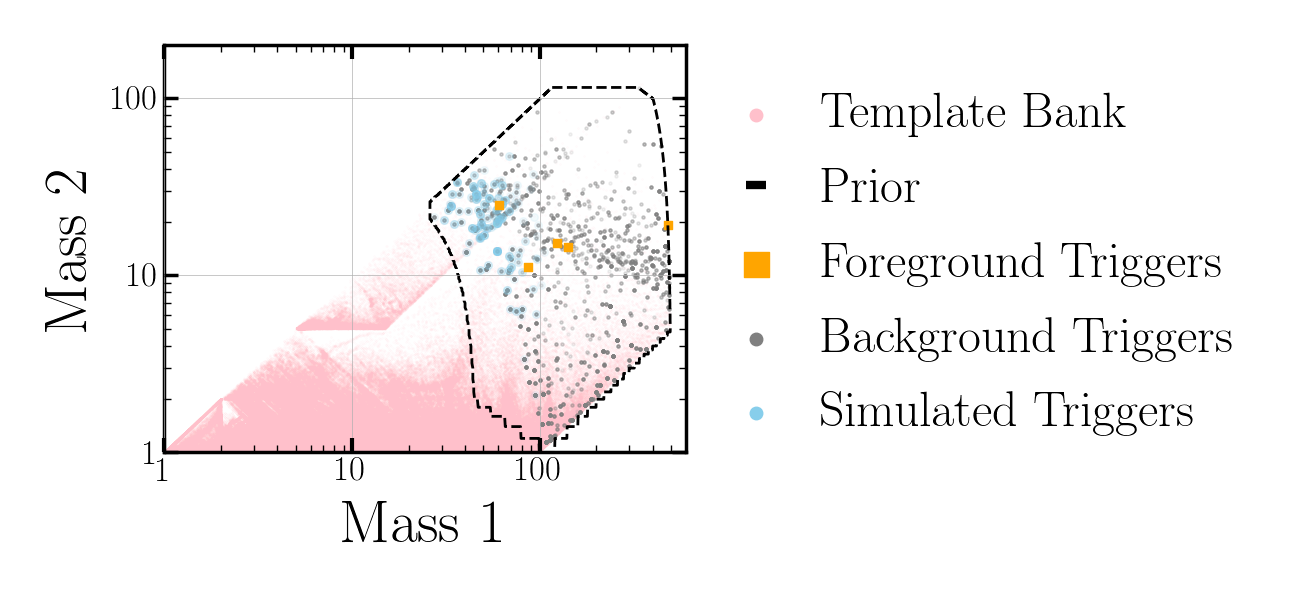
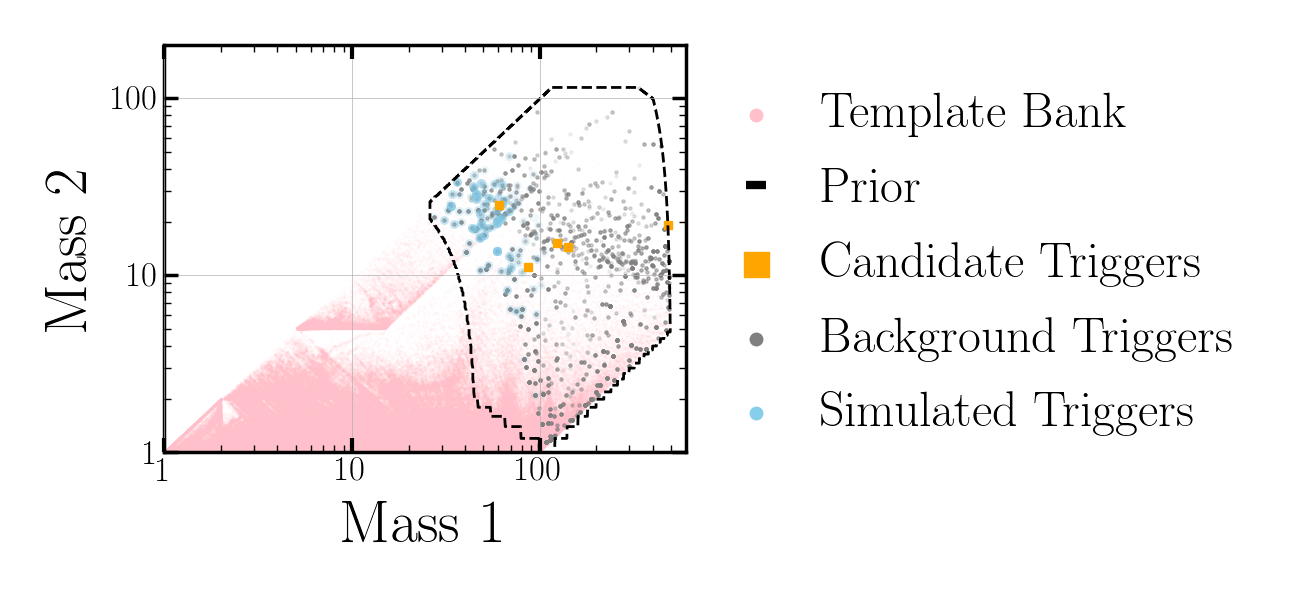
adjust trigger label

Changed region(s): [[0.6154, 0.39, 0.9538, 0.48]]

diff --git a/scripts/make_template_plot.py b/scripts/make_template_plot.py
@@ -186,7 +186,7 @@ def plot_template_bank():
 
     bank_patch = ax_m1m2.scatter([], [], label="Template Bank", marker=".", color="pink")
     prior_patch, = ax_m1m2.plot([], [], label="Prior", linestyle="--", color="k")
-    fg_patch = ax_m1m2.scatter([], [], label="Foreground Triggers", marker="s", color="orange")
+    fg_patch = ax_m1m2.scatter([], [], label="Candidate Triggers", marker="s", color="orange")
     bg_patch = ax_m1m2.scatter([], [], label="Background Triggers", marker=".", color="gray")
     inj_patch = ax_m1m2.scatter([], [], label="Simulated Triggers", marker=".", color="skyblue")
     handles = [bank_patch, prior_patch, fg_patch, bg_patch, inj_patch]
